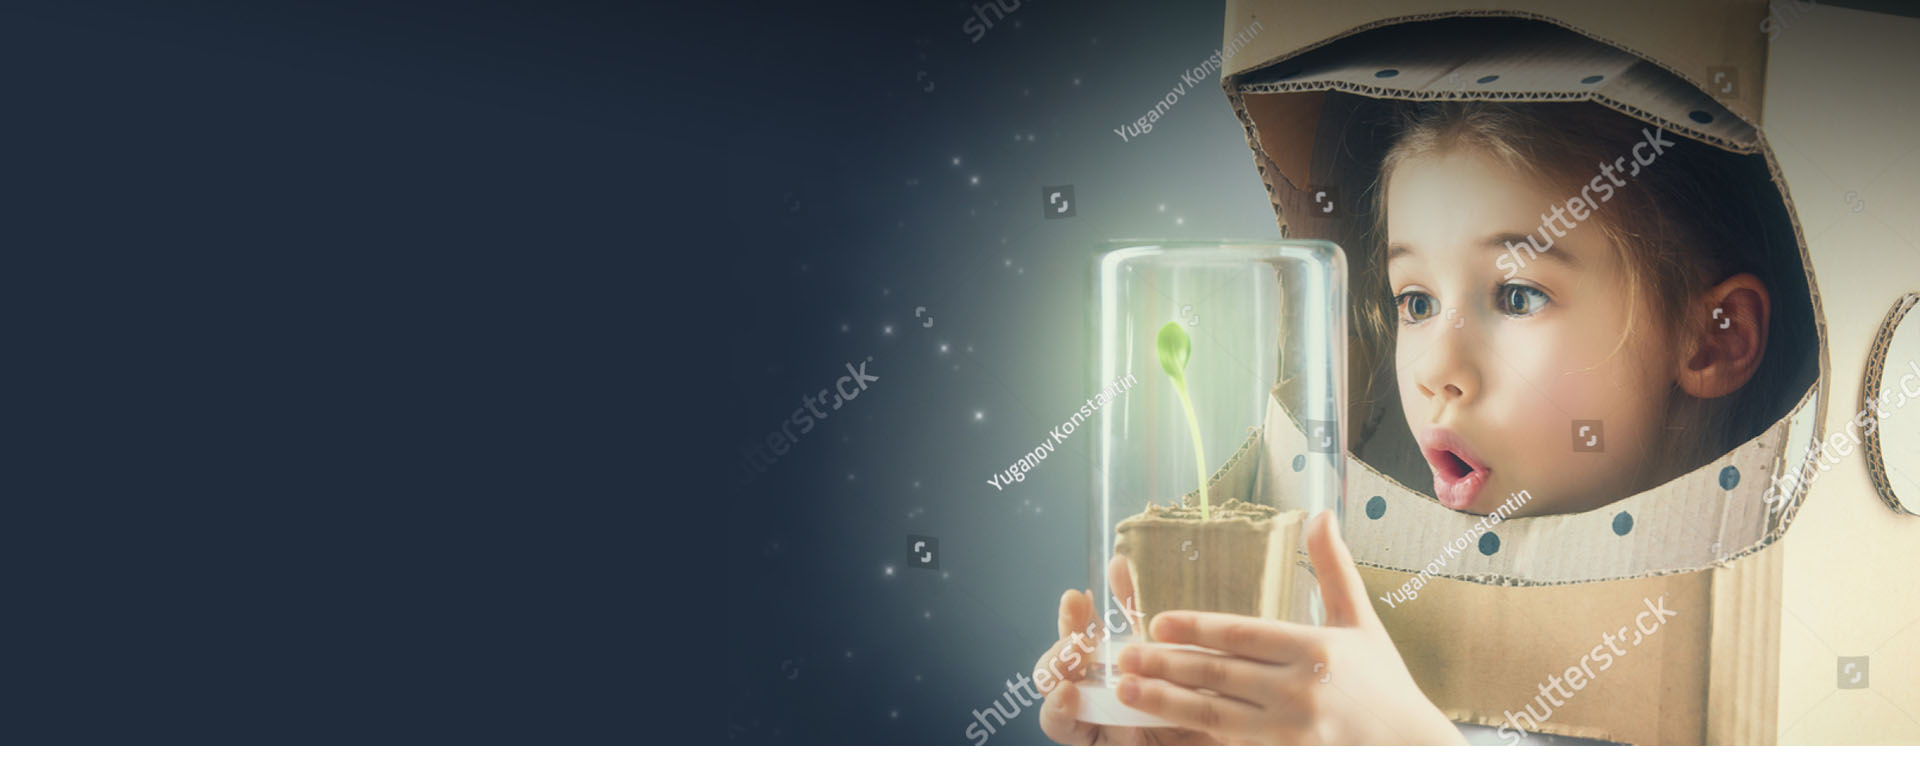
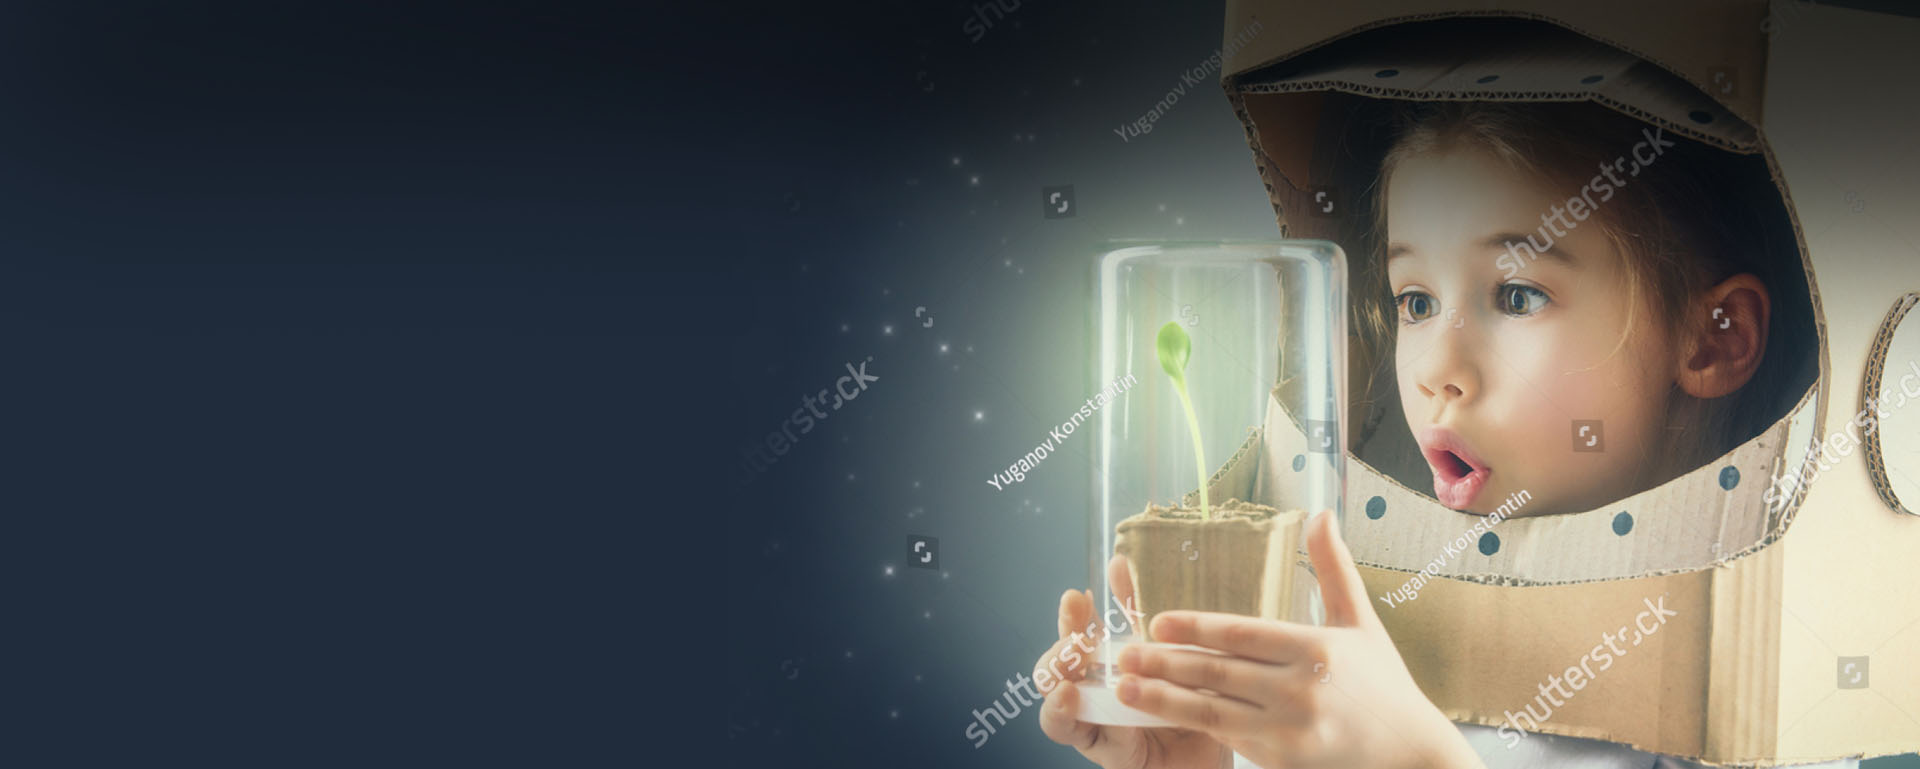
added responsive hero-text

Changed region(s): [[0.4688, 0.0, 1.0, 0.4369], [0.0, 0.9675, 1.0, 1.0]]

diff --git a/Components/Organisms/Header/Header.styles.js b/Components/Organisms/Header/Header.styles.js
@@ -10,6 +10,40 @@ export const StyledHeader = styled.header`
   .hero-image-wrapper {
     z-index: -1;
   }
+  .hero-text {
+    position: absolute;
+    top: 55%;
+    translate: 0 -50%;
+    color: ${({ theme }) => theme.color.white};
+    margin-inline: auto;
+    padding-inline: 1rem 3rem;
+    padding-block: 2rem;
+    background-color: hsla(0, 0%, 0%, 0.25);
+
+    h2 {
+      font-size: clamp(2.25rem, 6vw, 4rem);
+      font-family: var(--font-primary);
+      line-height: 1.125;
+      .text-pink {
+        color: ${({ theme }) => theme.color.pink};
+      }
+    }
+    p {
+      font-size: clamp(1rem, 2.25vw, 1.5rem);
+      font-family: var(--font-secondary);
+      margin-top: 0.5rem;
+    }
+
+    @media screen and (min-width: 700px) {
+      background-color: transparent;
+      padding-inline: 2rem 0;
+    }
+    @media screen and (min-width: 1440px) {
+      padding-inline: 0;
+      left: 50%;
+      translate: -50% -50%;
+    }
+  }
   .wave-wrapper {
     position: absolute;
     bottom: 0px;

diff --git a/Components/Organisms/Header/Header.js b/Components/Organisms/Header/Header.js
@@ -8,12 +8,18 @@ const Header = props => (
     <div className="hero-image-wrapper">
       <Image
         priority
-        src="/images/hero-image.png"
+        src="/images/hero-image2.jpg"
         alt="Dziewczynka w stroju astrunauty trzymająca roślinę"
         layout="fill"
         objectFit="cover"
         objectPosition="75%"
       />
+    </div>
+    <div className="hero-text max-width">
+      <h2>
+        Zadbaj z nami o przyszłość <br /> <span className="text-pink">swojego dziecka!</span>
+      </h2>
+      <p>Zapraszamy dzieci w wieku od 1 do 3 lat!</p>
     </div>
     <div className="wave-wrapper">
       <Image priority src="/images/hero-wave.svg" alt="Biała fala dekoracyjna" layout="fill" />

diff --git a/Components/Atoms/HamburgerButton/HamburgerButton.styles.js b/Components/Atoms/HamburgerButton/HamburgerButton.styles.js
@@ -2,7 +2,6 @@ import styled from 'styled-components';
 
 export const StyledBurger = styled.button`
   position: absolute;
-  top: 50%;
   right: 0;
   translate: 0 -50%;
   display: flex;
@@ -16,6 +15,7 @@ export const StyledBurger = styled.button`
   padding: 0;
 
   @media screen and (min-width: 700px) {
+    top: 50%;
     z-index: 10;
   }
 

diff --git a/styles/globals.css b/styles/globals.css
@@ -38,7 +38,10 @@ a {
 }
 
 .max-width {
-  width: min(1440px, 100%);
+  width: 100%;
 }
-
-/* === */
+@media screen and (min-width: 1440px) {
+  .max-width {
+    width: min(1440px, 95%);
+  }
+}
